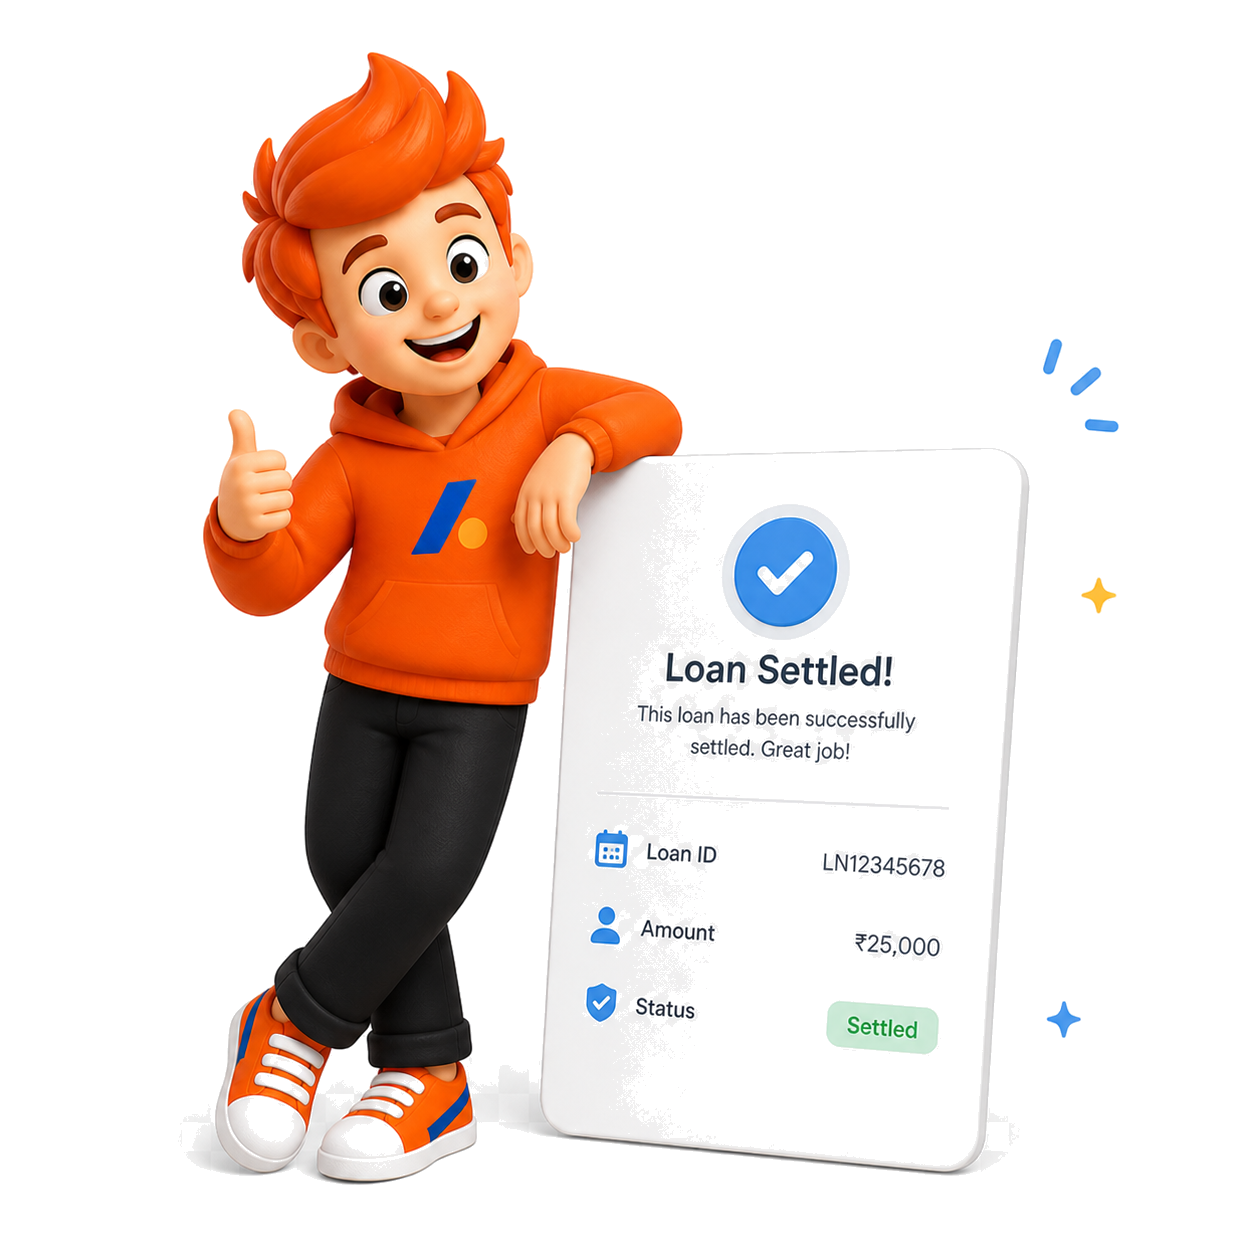
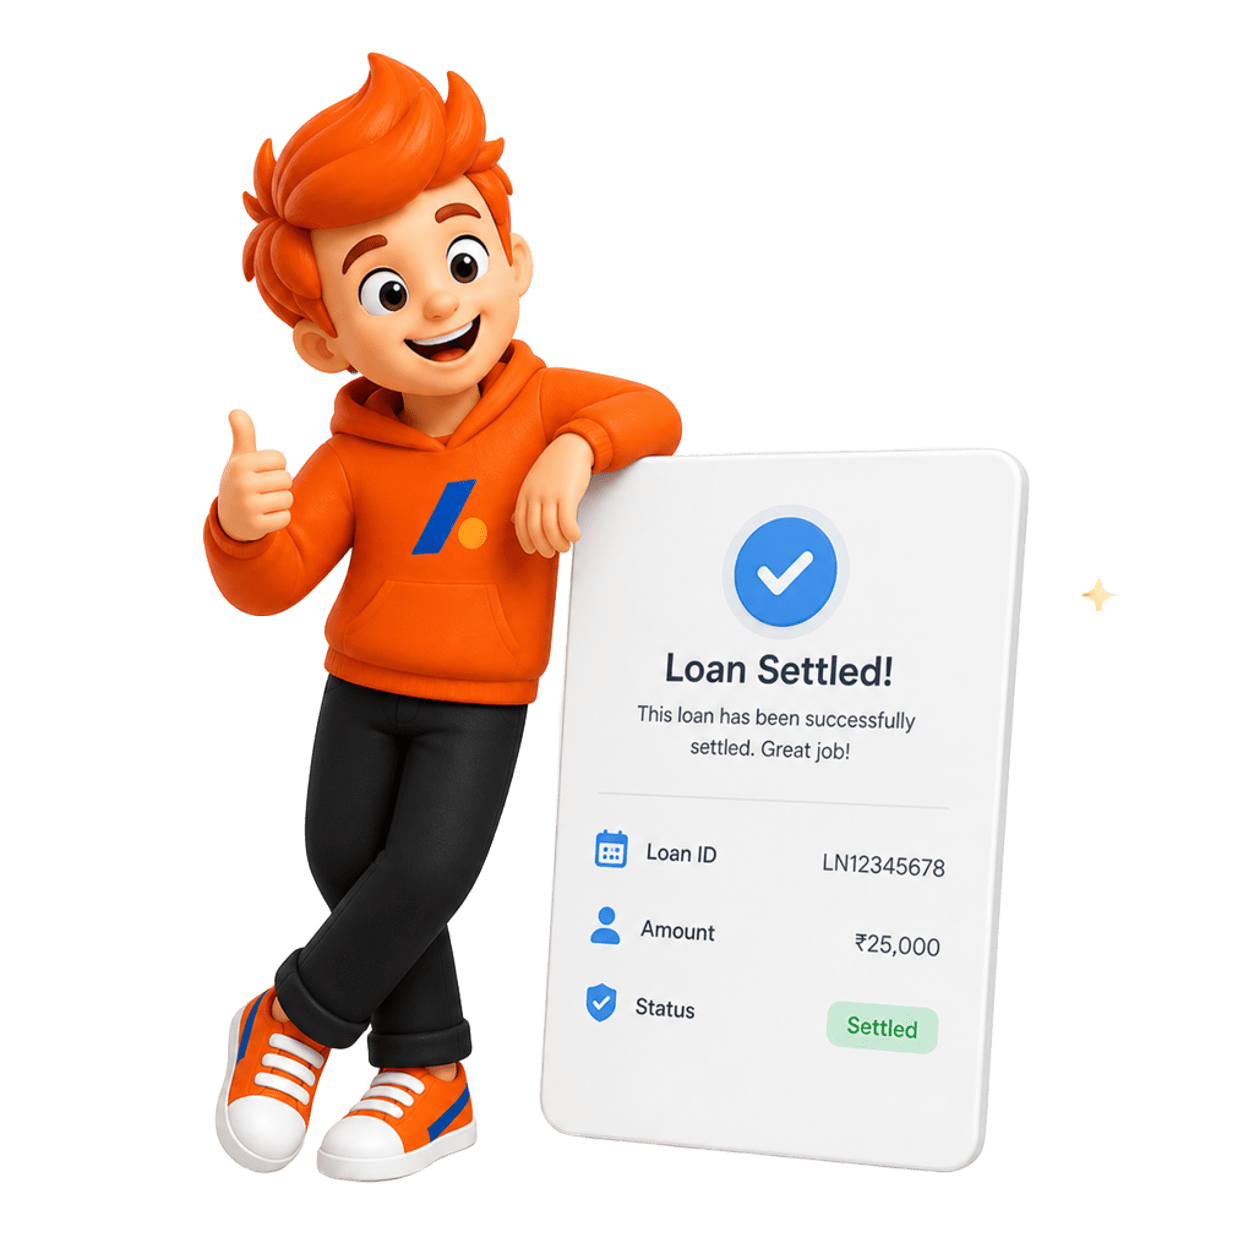
style: update visual assets and remove dashed border from transaction empty state

diff --git a/src/components/dashboard/DashboardRecentTransactions.jsx b/src/components/dashboard/DashboardRecentTransactions.jsx
@@ -140,7 +140,7 @@ const DashboardRecentTransactions = memo(function DashboardRecentTransactions({
           <p className="section-label">Latest transactions</p>
         </div>
 
-        <div className="rounded-card border border-dashed border-kosha-border bg-kosha-surface-2">
+        <div className="rounded-card bg-kosha-surface-2">
           <EmptyState
             className="py-6"
             imageUrl="/illustrations/empty_transactions.png"

diff --git a/src/index.css b/src/index.css
@@ -898,7 +898,7 @@ textarea:focus-visible,
   }
 
   .dark .illustration {
-    filter: invert(1) hue-rotate(180deg);
+    filter: brightness(0.85);
   }
 
   /* -- Close button ────────────────────────────────────────────────── */
